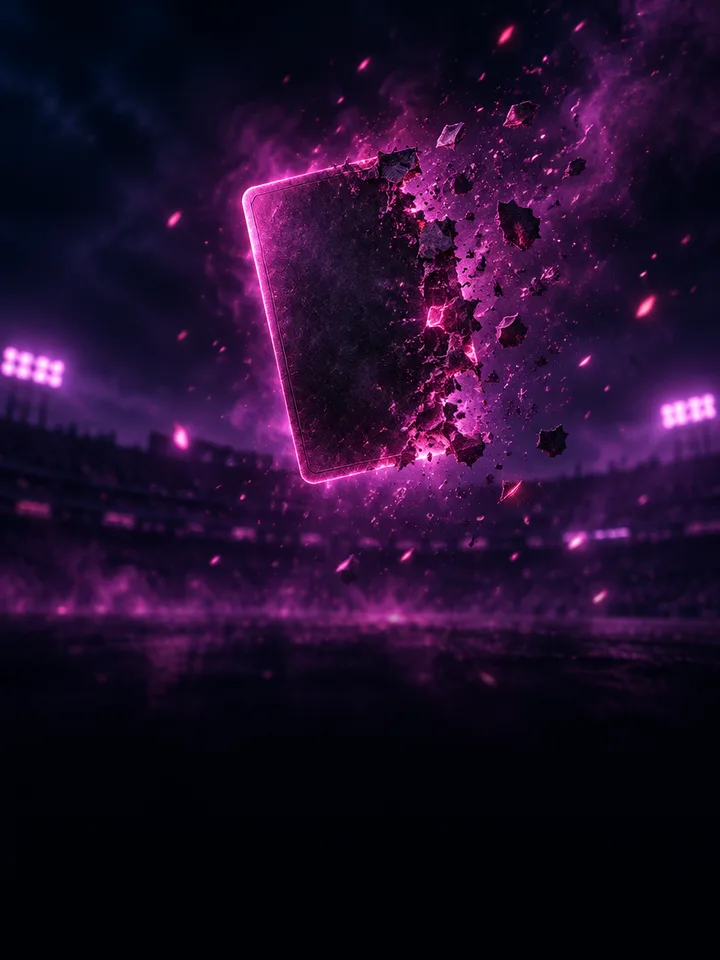
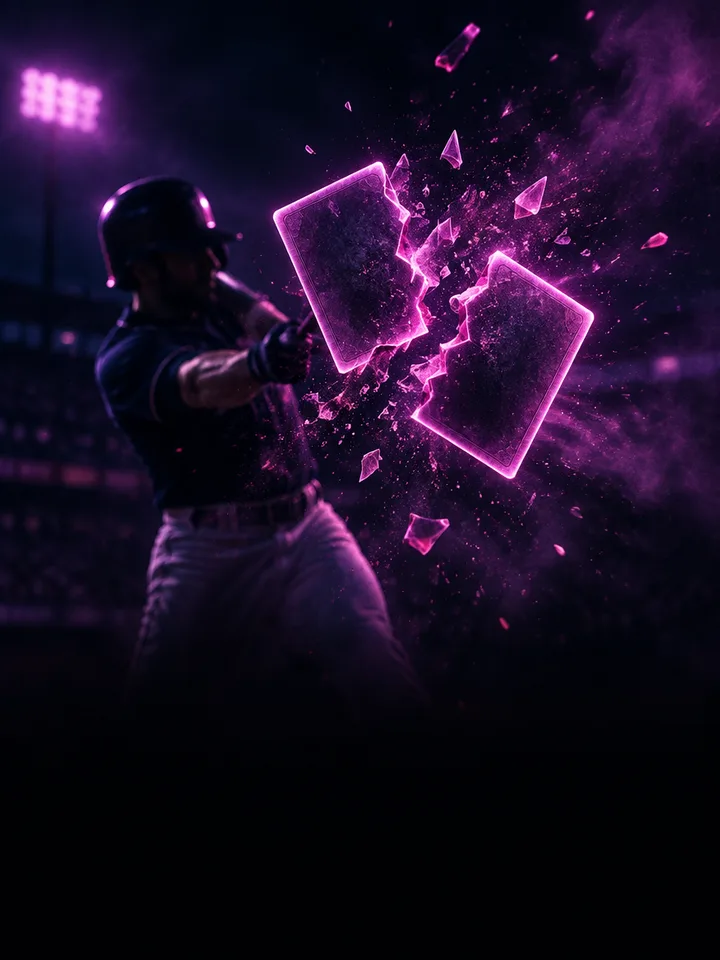
증강 권 두 장을 한눈에 갈라 보이게 다시 뽑는다 — 제거권은 반으로 갈라지는 카드, 강화권은 솟아오르는 화살표 · 빛 색(마젠타)과 결은 그대로

diff --git a/mockups/aug-tickets/main.jsx b/mockups/aug-tickets/main.jsx
@@ -1,0 +1,168 @@
+/*
+ * 증강 POOL 사이드의 제거권 · 강화권 칸 8안 (개발 서버: /mockups/aug-tickets/)
+ * 상점에서 쓰는 그림(ui/shop/au-remove · au-upgrade)을 끌어와 등급 단추와 같은 결로 맞춘다.
+ * 칸 폭은 실제와 같은 248. 위에 진짜 등급 단추를 한 줄 놓아 결이 맞는지 본다. 화면 1920 × 911.
+ */
+import React from 'react';
+import { createRoot } from 'react-dom/client';
+import '../../src/index.css';
+
+const disp = "'Saira Condensed','IBM Plex Sans KR',sans-serif";
+const W = 248;
+const cut = (c = 8) => `polygon(${c}px 0,100% 0,100% calc(100% - ${c}px),calc(100% - ${c}px) 100%,0 100%,0 ${c}px)`;
+const RM = { key: 'remove', ko: '제거권', en: 'REMOVE', img: 'ui/shop/au-remove.webp', c: '#fb7185', n: 2, tip: '제외 칸을 하나 연다' };
+const UP = { key: 'upgrade', ko: '강화권', en: 'UPGRADE', img: 'ui/shop/au-upgrade.webp', c: '#fbbf24', n: 5, tip: '증강 레벨을 하나 올린다' };
+const T = [RM, UP];
+
+/* 실제 등급 단추 — 결을 견주려고 그대로 둔다 */
+const NavBtn = ({ on }) => (
+  <div className={`mt-nav sm ${on ? 'on' : ''}`} style={{ width: W, '--a': '#cbd5e1' }}>
+    <span className="th" style={{ backgroundImage: 'url(ui/aug/silver.webp)' }} />
+    <span style={{ display: 'grid', gap: 2 }}>
+      <b style={{ fontSize: 14.5, color: '#e8ecf2' }}>실버 증강</b>
+    </span>
+  </div>
+);
+
+/* ── 여덟 안 ── */
+const V = [
+  ['A · 지금 모습', '글자만 두 줄', (
+    <div style={{ width: W, padding: 12, clipPath: cut(8), background: 'rgba(255,255,255,.045)' }}>
+      {T.map((t) => (
+        <div key={t.key} style={{ display: 'flex', justifyContent: 'space-between', fontSize: 14, color: '#9ca3af' }}>
+          <span>{t.ko}</span><b style={{ fontFamily: disp, fontSize: 18, color: t.c }}>{t.n}</b>
+        </div>
+      ))}
+    </div>
+  )],
+
+  ['B · 등급 단추와 같은 결', '그림 썸네일 · 이름 · 수 — 위 단추와 같은 꼴', (
+    <div style={{ width: W, display: 'grid', gap: 6 }}>
+      {T.map((t) => (
+        <div key={t.key} style={{ display: 'flex', alignItems: 'center', gap: 12, height: 56, padding: '0 12px 0 0',
+          clipPath: cut(8), background: 'rgba(255,255,255,.04)', boxShadow: `inset 3px 0 0 ${t.c}66` }}>
+          <span style={{ width: 40, height: 44, flex: 'none', backgroundImage: `url(${t.img})`, backgroundSize: 'cover', backgroundPosition: 'center 30%', clipPath: cut(7) }} />
+          <b style={{ flex: 1, fontSize: 14, color: '#cbd5e1' }}>{t.ko}</b>
+          <b style={{ fontFamily: disp, fontSize: 22, color: t.c }}>{t.n}</b>
+        </div>
+      ))}
+    </div>
+  )],
+
+  ['C · 그림을 바탕으로', '그림이 칸을 채우고 그 위에 이름과 수', (
+    <div style={{ width: W, display: 'grid', gap: 6 }}>
+      {T.map((t) => (
+        <div key={t.key} style={{ position: 'relative', height: 58, overflow: 'hidden', clipPath: cut(8), background: '#070b14' }}>
+          <span style={{ position: 'absolute', inset: 0, backgroundImage: `url(${t.img})`, backgroundSize: 'cover', backgroundPosition: 'center 35%', opacity: .55 }} />
+          <span style={{ position: 'absolute', inset: 0, background: `linear-gradient(90deg,rgba(7,11,20,.9),rgba(7,11,20,.35))` }} />
+          <span style={{ position: 'absolute', insetInline: '12px 12px', top: '50%', transform: 'translateY(-50%)', display: 'flex', alignItems: 'center' }}>
+            <b style={{ flex: 1, fontSize: 14.5, color: '#e8ecf2' }}>{t.ko}</b>
+            <b style={{ fontFamily: disp, fontSize: 24, color: t.c, textShadow: `0 0 14px ${t.c}66` }}>{t.n}</b>
+          </span>
+          <span style={{ position: 'absolute', insetBlock: 0, left: 0, width: 3, background: t.c }} />
+        </div>
+      ))}
+    </div>
+  )],
+
+  ['D · 나란히 두 장', '가로로 반씩 — 그림 위에 큰 수', (
+    <div style={{ width: W, display: 'grid', gridTemplateColumns: '1fr 1fr', gap: 6 }}>
+      {T.map((t) => (
+        <div key={t.key} style={{ position: 'relative', height: 96, overflow: 'hidden', clipPath: cut(8), background: '#070b14', boxShadow: `inset 0 0 0 1px ${t.c}3d` }}>
+          <span style={{ position: 'absolute', inset: 0, backgroundImage: `url(${t.img})`, backgroundSize: 'cover', backgroundPosition: 'center 28%', opacity: .7 }} />
+          <span style={{ position: 'absolute', inset: 0, background: 'linear-gradient(180deg,rgba(7,11,20,.1),#070b14 88%)' }} />
+          <span style={{ position: 'absolute', insetInline: 0, bottom: 8, display: 'grid', justifyItems: 'center', gap: 1 }}>
+            <b style={{ fontFamily: disp, fontSize: 26, lineHeight: 1, color: t.c }}>{t.n}</b>
+            <small style={{ fontSize: 12, color: '#cbd5e1' }}>{t.ko}</small>
+          </span>
+        </div>
+      ))}
+    </div>
+  )],
+
+  ['E · 쓰임까지 한 줄', '수 옆에 이 권이 무엇을 하는지', (
+    <div style={{ width: W, display: 'grid', gap: 6 }}>
+      {T.map((t) => (
+        <div key={t.key} style={{ display: 'flex', alignItems: 'center', gap: 11, height: 62, padding: '0 12px 0 0', clipPath: cut(8), background: 'rgba(255,255,255,.04)' }}>
+          <span style={{ width: 44, height: 50, flex: 'none', backgroundImage: `url(${t.img})`, backgroundSize: 'cover', backgroundPosition: 'center 30%', clipPath: cut(7), boxShadow: `inset 0 0 0 1px ${t.c}59` }} />
+          <span style={{ display: 'grid', gap: 1, minWidth: 0, flex: 1 }}>
+            <b style={{ fontSize: 13.5, color: '#e8ecf2' }}>{t.ko}</b>
+            <small style={{ fontSize: 11.5, color: '#7c8797', whiteSpace: 'nowrap' }}>{t.tip}</small>
+          </span>
+          <b style={{ fontFamily: disp, fontSize: 23, color: t.c }}>{t.n}</b>
+        </div>
+      ))}
+    </div>
+  )],
+
+  ['F · 한 장으로 묶기', '머리글 아래 두 줄 — 칸 하나로 모은다', (
+    <div style={{ width: W, overflow: 'hidden', clipPath: cut(10), background: 'rgba(255,255,255,.04)', boxShadow: 'inset 0 0 0 1px rgba(255,255,255,.08)' }}>
+      <div style={{ padding: '8px 12px 6px', fontFamily: disp, fontSize: 11, fontWeight: 700, letterSpacing: '.2em', color: '#6b7787' }}>TICKETS</div>
+      {T.map((t, i) => (
+        <div key={t.key} style={{ display: 'flex', alignItems: 'center', gap: 10, padding: '7px 12px', boxShadow: i ? 'inset 0 1px 0 rgba(255,255,255,.06)' : undefined }}>
+          <span style={{ width: 34, height: 38, flex: 'none', backgroundImage: `url(${t.img})`, backgroundSize: 'cover', backgroundPosition: 'center 30%', clipPath: cut(6) }} />
+          <b style={{ flex: 1, fontSize: 13.5, color: '#cbd5e1' }}>{t.ko}</b>
+          <b style={{ fontFamily: disp, fontSize: 21, color: t.c }}>{t.n}</b>
+        </div>
+      ))}
+    </div>
+  )],
+
+  ['G · 상점으로 가는 길까지', '수 옆에 + 단추, 맨 아래 상점 줄', (
+    <div style={{ width: W, display: 'grid', gap: 6 }}>
+      {T.map((t) => (
+        <div key={t.key} style={{ display: 'flex', alignItems: 'center', gap: 11, height: 56, padding: '0 8px 0 0', clipPath: cut(8), background: 'rgba(255,255,255,.04)' }}>
+          <span style={{ width: 40, height: 44, flex: 'none', backgroundImage: `url(${t.img})`, backgroundSize: 'cover', backgroundPosition: 'center 30%', clipPath: cut(7) }} />
+          <b style={{ flex: 1, fontSize: 13.5, color: '#cbd5e1' }}>{t.ko}</b>
+          <b style={{ fontFamily: disp, fontSize: 21, color: t.c }}>{t.n}</b>
+          <span style={{ display: 'grid', placeItems: 'center', width: 26, height: 26, clipPath: cut(5), background: 'rgba(255,255,255,.07)', fontSize: 15, color: '#cbd5e1' }}>+</span>
+        </div>
+      ))}
+      <div style={{ padding: '6px 0', textAlign: 'center', clipPath: cut(6), background: 'rgba(255,255,255,.03)', fontSize: 12, color: '#7c8797' }}>상점에서 더 사기 ▶</div>
+    </div>
+  )],
+
+  ['H · 큰 배너 한 장', '두 그림을 반씩 깔고 수를 크게', (
+    <div style={{ position: 'relative', width: W, height: 104, overflow: 'hidden', clipPath: cut(10), background: '#070b14' }}>
+      {T.map((t, i) => (
+        <span key={t.key} style={{ position: 'absolute', insetBlock: 0, left: i ? '50%' : 0, width: '50%',
+          backgroundImage: `url(${t.img})`, backgroundSize: 'cover', backgroundPosition: 'center 28%', opacity: .5 }} />
+      ))}
+      <span style={{ position: 'absolute', inset: 0, background: 'linear-gradient(180deg,rgba(7,11,20,.35),#070b14 92%)' }} />
+      <span style={{ position: 'absolute', insetInline: 0, top: 10, textAlign: 'center', fontFamily: disp, fontSize: 11, fontWeight: 700, letterSpacing: '.24em', color: '#8b97a6' }}>TICKETS</span>
+      <span style={{ position: 'absolute', insetInline: 0, bottom: 12, display: 'grid', gridTemplateColumns: '1fr 1fr' }}>
+        {T.map((t) => (
+          <span key={t.key} style={{ display: 'grid', justifyItems: 'center', gap: 2 }}>
+            <b style={{ fontFamily: disp, fontSize: 30, lineHeight: 1, color: t.c, textShadow: `0 0 16px ${t.c}55` }}>{t.n}</b>
+            <small style={{ fontSize: 11.5, color: '#cbd5e1' }}>{t.ko}</small>
+          </span>
+        ))}
+      </span>
+    </div>
+  )],
+];
+
+const App = () => (
+  <div style={{ minHeight: '100vh', padding: '26px 0 60px', background: 'radial-gradient(120% 90% at 50% 0%,#132033 0%,#0a0e15 62%)', color: '#e8ecf2', fontFamily: "'IBM Plex Sans KR',sans-serif" }}>
+    <div style={{ width: 1520, margin: '0 auto 18px' }}>
+      <b style={{ fontFamily: disp, fontSize: 22 }}>제거권 · 강화권 칸 8안</b>
+      <span style={{ marginLeft: 12, fontSize: 13.5, color: '#94a3b8' }}>상점 그림을 끌어온다 · 칸 폭은 실제와 같은 248 (위 회색 줄은 지금 등급 단추)</span>
+    </div>
+    <div style={{ display: 'grid', gridTemplateColumns: `repeat(4,${W + 24}px)`, justifyContent: 'center', gap: '30px 52px' }}>
+      {V.map(([title, note, node]) => (
+        <div key={title}>
+          <div style={{ marginBottom: 8 }}>
+            <b style={{ fontFamily: disp, fontSize: 16.5 }}>{title}</b>
+            <p style={{ margin: '2px 0 0', fontSize: 12.5, color: '#8b97a6' }}>{note}</p>
+          </div>
+          <div style={{ width: W + 24, padding: 12, clipPath: cut(14), background: 'rgba(8,12,20,.6)', boxShadow: 'inset 0 0 0 1px rgba(255,255,255,.06)' }}>
+            <NavBtn on />
+            <div style={{ height: 14 }} />
+            {node}
+          </div>
+        </div>
+      ))}
+    </div>
+  </div>
+);
+createRoot(document.getElementById('root')).render(<App />);

diff --git a/mockups/aug-tickets/index.html b/mockups/aug-tickets/index.html
@@ -1,0 +1,6 @@
+<!doctype html>
+<html lang="ko"><head><meta charset="UTF-8" /><meta name="viewport" content="width=device-width, initial-scale=1.0" />
+<title>제거권 · 강화권 칸 목업</title>
+<base href="/" />
+<link rel="stylesheet" href="https://fonts.googleapis.com/css2?family=IBM+Plex+Sans+KR:wght@400;500;600;700&family=Saira+Condensed:wght@500;600;700;800&display=swap" />
+</head><body style="margin:0;background:#0a0e15"><div id="root"></div><script type="module" src="/mockups/aug-tickets/main.jsx"></script></body></html>
